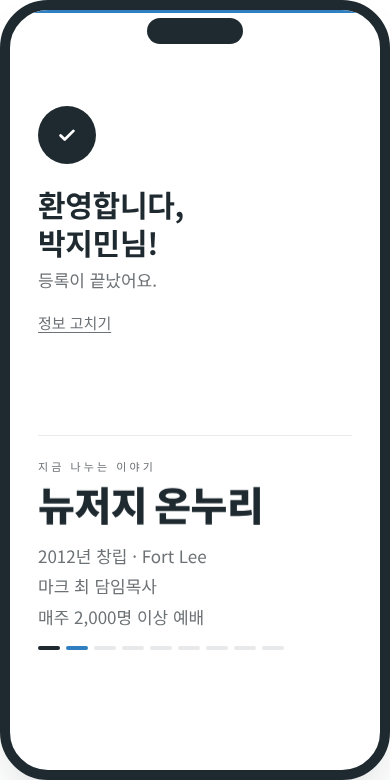
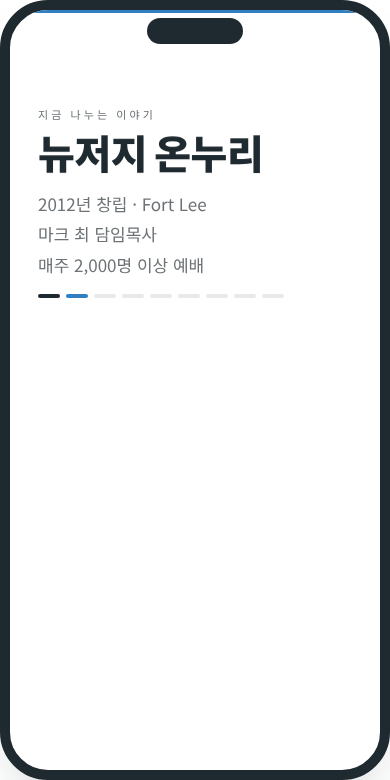
App: welcome/check-in header disappears once the leader starts; phone shows only the live story
Claude-Session: https://claude.ai/code/session_01HiA1GonWmcVJgnFShP9VMN

diff --git a/site/app/index.html b/site/app/index.html
@@ -379,6 +379,9 @@ input[data-act="funote"]:focus,input[data-act="bdayNote"]:focus{outline:none;bor
 .slist .ck svg{width:14px;height:14px;opacity:0}.slist .ck:hover svg{opacity:.35}.slist .ck.on svg{opacity:1}
 .chname{border:0;background:none;padding:0;font:inherit;font-weight:700;font-size:15px;color:var(--ink);cursor:pointer;text-decoration:underline;text-decoration-color:var(--line);text-underline-offset:4px;text-align:left}.chname:hover{text-decoration-color:var(--ink)}
 .chedit{display:flex;gap:8px;align-items:center;flex:1;flex-wrap:wrap}.chedit .tin{flex:1;min-width:140px;border:1px solid var(--line);border-radius:10px;padding:7px 10px}
+/* 모임이 시작되면 환영/체크인 문구는 사라지고 지금 이야기만 */
+.donehead:has(+ .live.started){display:none}
+.donehead:has(+ .live.started)+.live{margin-top:0;border-top:0;padding-top:0}
 .praylist{border-left:1px solid var(--line);padding-left:28px;max-height:100%;overflow:auto}
 .praylist h3{margin:0 0 10px}
 .prow{padding:10px 0;border-bottom:1px solid var(--line)}
@@ -997,9 +1000,8 @@ function churchResults(q,onnuriOnly){
 }
 function doneHTML(){
   const n=F.d.ko||F.d.en||'';
-  return `<div class="done-check">${CHECK}</div><h2 class="qt">환영합니다,<br>${esc(n)}님!</h2><p class="qs" style="margin-bottom:8px">등록이 끝났어요.</p>
-   <button type="button" class="linkbtn" data-act="editInfo">정보 고치기</button>
-   ${liveHTML(1,F.saved)}`;
+  return `<div class="donehead"><div class="done-check">${CHECK}</div><h2 class="qt">환영합니다,<br>${esc(n)}님!</h2><p class="qs" style="margin-bottom:8px">등록이 끝났어요.</p>
+   <button type="button" class="linkbtn" data-act="editInfo">정보 고치기</button></div>${liveHTML(1,F.saved)}`;
 }
 function initForm(){
   if(!F.d||F.saved&&!byId(F.saved)){F.d={};F.saved=null;F.i=0}
@@ -1117,10 +1119,10 @@ function liveHTML(w,pid,lidOver){
   if(!fin&&t[i].steps&&t[i].blocks){const st=(c.sub&&c.sub[c.idx])||{};const n=Math.min(t[i].blocks.filter((_,j)=>st['b'+j]).length,t[i].blocks.length-1);const bl=t[i].blocks[n];kwT=bl.h;briefH=bl.items.map(x=>`<li>${itemHTML(x)}</li>`).join('')}
   const pp=pid&&byId(pid);const sent=pp&&pp.weeks[w]&&pp.weeks[w].prayerBy==='self';
   const fbDone=pp&&pp.weeks[w]&&pp.weeks[w].fb;
-  if(fin&&!fbDone)return `<div class="live" data-live="${w}" data-pid="${pid||''}"><p class="lbl">${w}주차를 마쳤어요</p><p class="kw" style="font-size:28px">함께해 줘서 고마워요</p>${fbHTML(w,pp)}</div>`;
+  if(fin&&!fbDone)return `<div class="live started" data-live="${w}" data-pid="${pid||''}"><p class="lbl">${w}주차를 마쳤어요</p><p class="kw" style="font-size:28px">함께해 줘서 고마워요</p>${fbHTML(w,pp)}</div>`;
   const prayer=fin&&!pp?`<div class="pray-f"><label style="font-size:15px;font-weight:500">이번 주 기도제목을 나눠 주세요</label><textarea rows="2" disabled></textarea></div>`:fin&&pp?(sent?`<p class="note" style="margin-top:14px;font-size:15px">기도제목을 받았어요. 함께 기도할게요.</p>`
     :`<div class="pray-f"><label for="pray-${w}" style="font-size:15px;font-weight:500">이번 주 기도제목을 나눠 주세요</label><textarea id="pray-${w}" rows="3"></textarea><button class="btn" type="button" data-act="prayerSend" data-w="${w}" data-pid="${pid}">보내기</button></div>`):'';
-  return `<div class="live" data-live="${w}" data-pid="${pid||''}"><p class="lbl">${fin?w+'주차를 마쳤어요':'지금 나누는 이야기'}</p><p class="kw"${fin?' style="font-size:28px"':''}>${fin?'함께해 줘서 고마워요':esc(kwT)}</p>${!fin&&briefH?`<ul class="brief">${briefH}</ul>`:''}
+  return `<div class="live started" data-live="${w}" data-pid="${pid||''}"><p class="lbl">${fin?w+'주차를 마쳤어요':'지금 나누는 이야기'}</p><p class="kw"${fin?' style="font-size:28px"':''}>${fin?'함께해 줘서 고마워요':esc(kwT)}</p>${!fin&&briefH?`<ul class="brief">${briefH}</ul>`:''}
    <div class="dots">${t.map((_,j)=>`<i class="${j<c.idx?'on':''} ${j===i&&!fin?'cur':''}"></i>`).join('')}</div>${prayer}${fin?saveBar(w,!!pp):''}</div>`;
 }
 
@@ -1230,9 +1232,9 @@ function initCheckin(w){
   $('#ck-q').addEventListener('input',e=>{CK.q=e.target.value;list()});
   $('#ckres').addEventListener('click',e=>{const b=e.target.closest('[data-ck]');if(!b)return;const p=byId(b.dataset.ck);p.weeks[w]=Object.assign(p.weeks[w]||{},{checkin:today});save();CK.pid=p.id;fillDone();show(2)});
   const fillDone=()=>{const p=byId(CK.pid);if(!p)return;const s=seatOf(w,p.id);
-    $('#ckdone').innerHTML=`<div class="done-check">${CHECK}</div><h2 class="qt">${esc(nm(p))}님,<br>체크인 완료!</h2><p class="qs" style="margin-bottom:0">${w}주차 · ${WEEK_NAMES[w]}</p>
+    $('#ckdone').innerHTML=`<div class="donehead"><div class="done-check">${CHECK}</div><h2 class="qt">${esc(nm(p))}님,<br>체크인 완료!</h2><p class="qs" style="margin-bottom:0">${w}주차 · ${WEEK_NAMES[w]}</p>
 
-     <button type="button" class="linkbtn" data-act="ckOther">다른 사람으로 체크인</button>${liveHTML(w,p.id)}`};
+     <button type="button" class="linkbtn" data-act="ckOther">다른 사람으로 체크인</button></div>${liveHTML(w,p.id)}`};
   if(CK.pid)fillDone();
   show(i);
 }
@@ -1276,8 +1278,8 @@ function initIdent(w){
     if(p.registeredAt||p.transferredAt||p.weeks[4]?.done){box.innerHTML=`<div class="done-check">${CHECK}</div><h2 class="qt">${esc(nm(p))}님은<br>과정을 모두 마쳤어요</h2><p class="qs">오늘도 와 주셔서 반가워요!</p>`;return}
     const nw=w;  /* 순장이 보여준 QR의 주차로 들어가요 */
     p.weeks[nw]=Object.assign(p.weeks[nw]||{},{checkin:today});save();
-    box.innerHTML=`<div class="done-check">${CHECK}</div><h2 class="qt">${esc(nm(p))}님,<br>들어오셨어요!</h2>
-     <p class="qs" style="margin-bottom:0">${nw}주차 · ${WEEK_NAMES[nw]}</p>${liveHTML(nw,p.id)}`;
+    box.innerHTML=`<div class="donehead"><div class="done-check">${CHECK}</div><h2 class="qt">${esc(nm(p))}님,<br>들어오셨어요!</h2>
+     <p class="qs" style="margin-bottom:0">${nw}주차 · ${WEEK_NAMES[nw]}</p></div>${liveHTML(nw,p.id)}`;
   };
   bindPhone();
   const ph=$('#phone');

diff --git a/demo/index.html b/demo/index.html
@@ -374,6 +374,9 @@ input[data-act="funote"]:focus,input[data-act="bdayNote"]:focus{outline:none;bor
 .slist .ck svg{width:14px;height:14px;opacity:0}.slist .ck:hover svg{opacity:.35}.slist .ck.on svg{opacity:1}
 .chname{border:0;background:none;padding:0;font:inherit;font-weight:700;font-size:15px;color:var(--ink);cursor:pointer;text-decoration:underline;text-decoration-color:var(--line);text-underline-offset:4px;text-align:left}.chname:hover{text-decoration-color:var(--ink)}
 .chedit{display:flex;gap:8px;align-items:center;flex:1;flex-wrap:wrap}.chedit .tin{flex:1;min-width:140px;border:1px solid var(--line);border-radius:10px;padding:7px 10px}
+/* 모임이 시작되면 환영/체크인 문구는 사라지고 지금 이야기만 */
+.donehead:has(+ .live.started){display:none}
+.donehead:has(+ .live.started)+.live{margin-top:0;border-top:0;padding-top:0}
 .praylist{border-left:1px solid var(--line);padding-left:28px;max-height:100%;overflow:auto}
 .praylist h3{margin:0 0 10px}
 .prow{padding:10px 0;border-bottom:1px solid var(--line)}
@@ -989,9 +992,8 @@ function churchResults(q,onnuriOnly){
 }
 function doneHTML(){
   const n=F.d.ko||F.d.en||'';
-  return `<div class="done-check">${CHECK}</div><h2 class="qt">환영합니다,<br>${esc(n)}님!</h2><p class="qs" style="margin-bottom:8px">등록이 끝났어요.</p>
-   <button type="button" class="linkbtn" data-act="editInfo">정보 고치기</button>
-   ${liveHTML(1,F.saved)}`;
+  return `<div class="donehead"><div class="done-check">${CHECK}</div><h2 class="qt">환영합니다,<br>${esc(n)}님!</h2><p class="qs" style="margin-bottom:8px">등록이 끝났어요.</p>
+   <button type="button" class="linkbtn" data-act="editInfo">정보 고치기</button></div>${liveHTML(1,F.saved)}`;
 }
 function initForm(){
   if(!F.d||F.saved&&!byId(F.saved)){F.d={};F.saved=null;F.i=0}
@@ -1109,10 +1111,10 @@ function liveHTML(w,pid,lidOver){
   if(!fin&&t[i].steps&&t[i].blocks){const st=(c.sub&&c.sub[c.idx])||{};const n=Math.min(t[i].blocks.filter((_,j)=>st['b'+j]).length,t[i].blocks.length-1);const bl=t[i].blocks[n];kwT=bl.h;briefH=bl.items.map(x=>`<li>${itemHTML(x)}</li>`).join('')}
   const pp=pid&&byId(pid);const sent=pp&&pp.weeks[w]&&pp.weeks[w].prayerBy==='self';
   const fbDone=pp&&pp.weeks[w]&&pp.weeks[w].fb;
-  if(fin&&!fbDone)return `<div class="live" data-live="${w}" data-pid="${pid||''}"><p class="lbl">${w}주차를 마쳤어요</p><p class="kw" style="font-size:28px">함께해 줘서 고마워요</p>${fbHTML(w,pp)}</div>`;
+  if(fin&&!fbDone)return `<div class="live started" data-live="${w}" data-pid="${pid||''}"><p class="lbl">${w}주차를 마쳤어요</p><p class="kw" style="font-size:28px">함께해 줘서 고마워요</p>${fbHTML(w,pp)}</div>`;
   const prayer=fin&&!pp?`<div class="pray-f"><label style="font-size:15px;font-weight:500">이번 주 기도제목을 나눠 주세요</label><textarea rows="2" disabled></textarea></div>`:fin&&pp?(sent?`<p class="note" style="margin-top:14px;font-size:15px">기도제목을 받았어요. 함께 기도할게요.</p>`
     :`<div class="pray-f"><label for="pray-${w}" style="font-size:15px;font-weight:500">이번 주 기도제목을 나눠 주세요</label><textarea id="pray-${w}" rows="3"></textarea><button class="btn" type="button" data-act="prayerSend" data-w="${w}" data-pid="${pid}">보내기</button></div>`):'';
-  return `<div class="live" data-live="${w}" data-pid="${pid||''}"><p class="lbl">${fin?w+'주차를 마쳤어요':'지금 나누는 이야기'}</p><p class="kw"${fin?' style="font-size:28px"':''}>${fin?'함께해 줘서 고마워요':esc(kwT)}</p>${!fin&&briefH?`<ul class="brief">${briefH}</ul>`:''}
+  return `<div class="live started" data-live="${w}" data-pid="${pid||''}"><p class="lbl">${fin?w+'주차를 마쳤어요':'지금 나누는 이야기'}</p><p class="kw"${fin?' style="font-size:28px"':''}>${fin?'함께해 줘서 고마워요':esc(kwT)}</p>${!fin&&briefH?`<ul class="brief">${briefH}</ul>`:''}
    <div class="dots">${t.map((_,j)=>`<i class="${j<c.idx?'on':''} ${j===i&&!fin?'cur':''}"></i>`).join('')}</div>${prayer}${fin?saveBar(w,!!pp):''}</div>`;
 }
 
@@ -1222,9 +1224,9 @@ function initCheckin(w){
   $('#ck-q').addEventListener('input',e=>{CK.q=e.target.value;list()});
   $('#ckres').addEventListener('click',e=>{const b=e.target.closest('[data-ck]');if(!b)return;const p=byId(b.dataset.ck);p.weeks[w]=Object.assign(p.weeks[w]||{},{checkin:today});save();CK.pid=p.id;fillDone();show(2)});
   const fillDone=()=>{const p=byId(CK.pid);if(!p)return;const s=seatOf(w,p.id);
-    $('#ckdone').innerHTML=`<div class="done-check">${CHECK}</div><h2 class="qt">${esc(nm(p))}님,<br>체크인 완료!</h2><p class="qs" style="margin-bottom:0">${w}주차 · ${WEEK_NAMES[w]}</p>
+    $('#ckdone').innerHTML=`<div class="donehead"><div class="done-check">${CHECK}</div><h2 class="qt">${esc(nm(p))}님,<br>체크인 완료!</h2><p class="qs" style="margin-bottom:0">${w}주차 · ${WEEK_NAMES[w]}</p>
 
-     <button type="button" class="linkbtn" data-act="ckOther">다른 사람으로 체크인</button>${liveHTML(w,p.id)}`};
+     <button type="button" class="linkbtn" data-act="ckOther">다른 사람으로 체크인</button></div>${liveHTML(w,p.id)}`};
   if(CK.pid)fillDone();
   show(i);
 }
@@ -1268,8 +1270,8 @@ function initIdent(w){
     if(p.registeredAt||p.transferredAt||p.weeks[4]?.done){box.innerHTML=`<div class="done-check">${CHECK}</div><h2 class="qt">${esc(nm(p))}님은<br>과정을 모두 마쳤어요</h2><p class="qs">오늘도 와 주셔서 반가워요!</p>`;return}
     const nw=w;  /* 순장이 보여준 QR의 주차로 들어가요 */
     p.weeks[nw]=Object.assign(p.weeks[nw]||{},{checkin:today});save();
-    box.innerHTML=`<div class="done-check">${CHECK}</div><h2 class="qt">${esc(nm(p))}님,<br>들어오셨어요!</h2>
-     <p class="qs" style="margin-bottom:0">${nw}주차 · ${WEEK_NAMES[nw]}</p>${liveHTML(nw,p.id)}`;
+    box.innerHTML=`<div class="donehead"><div class="done-check">${CHECK}</div><h2 class="qt">${esc(nm(p))}님,<br>들어오셨어요!</h2>
+     <p class="qs" style="margin-bottom:0">${nw}주차 · ${WEEK_NAMES[nw]}</p></div>${liveHTML(nw,p.id)}`;
   };
   bindPhone();
   const ph=$('#phone');
